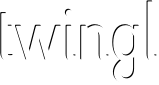
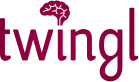
Initial styling and layout of new header/hero area.

diff --git a/css/style.css b/css/style.css
@@ -1,3 +1,22 @@
+a.logo { 
+    display: block;
+    width: 139px;
+    height: 82px;
+    background: url(../img/twingl@2x.png) no-repeat;
+    background-size: 139px 82px;
+    overflow: hidden;
+    text-indent: -200%;
+}
+
+.cf:before,
+.cf:after {
+    content: " "; /* 1 */
+    display: table; /* 2 */
+}
+
+.cf:after {
+    clear: both;
+}
 
 /* TODO: Refactor the heading/body sizes onto a typographic scale. */
 body {
@@ -12,19 +31,33 @@ strong {
     font-weight: 700;
 }
 header {
-    /* Styling */
-    background-image: -o-radial-gradient(50% 216%, #9E1452 50%, #4C0921 100%);
-    background-image: -moz-radial-gradient(50% 216%, #9E1452 50%, #4C0921 100%);
-    background-image: -webkit-radial-gradient(50% 216%, #9E1452 50%, #4C0921 100%);
-    background-image: -ms-radial-gradient(50% 216%, #9E1452 50%, #4C0921 100%);
-    background-image: radial-gradient(40% 80%, #9E1452 10%, #4C0921 120%);
-
+   
     /* Layout */
-    min-height: 200px;
-    position: relative;
+   
+    border-top: 16px solid #940142;
 
-    border-bottom: 2px solid #000;
 }
+
+header nav {
+    margin-top: 60px;
+    padding-bottom: 50px;
+    margin-bottom: 5em;
+    border-bottom: 1px solid #EBE7DF;
+}
+
+header nav ul {
+    float: right;
+    margin-top: 1.6em;
+}
+header nav li {
+    display: inline-block;
+    margin-left: 1em;
+}
+
+nav a.logo {
+    float: left;
+}
+
 a {
     color: #9E1452;
     text-decoration: none;
@@ -32,26 +65,7 @@ a {
 a:hover {
     text-decoration: underline;
 }
-a.logo { 
-    display: block;
-    width: 159px;
-    height: 85px;
-    margin-left: auto;
-    margin-right: auto;
-    background: url(../img/twingl@2x.png) no-repeat;
-    background-size: 159px 85px;
-    overflow: hidden;
-    text-indent: -200%;
-}
 
-header .logo {
-    position: absolute;
-    top: 50%;
-    left: 50%;
-    margin-left: -80px;
-    margin-top: -43px;
-       
-}
 
 
 section {
@@ -69,17 +83,27 @@ small {
 }
 
 section.hero {
-    text-align: center;
+    /*text-align: center;*/
+}
+
+.graph-homepage {
+    max-width: 300px; 
+    margin-top: 3em;
+    margin-bottom: 2em;
+    float: right;
 }
 
 h1 {
-    font-family: 'Whitney SSm A', 'Whitney SSm B'; 
+    /*font-family: 'Whitney SSm A', 'Whitney SSm B'; */
     font-weight: 300; 
     font-style: normal;
-    font-size: 3.5em;
-    letter-spacing: -0.03em;
-    line-height: 100%;
+    font-size: 3.8em;
+    letter-spacing: -1px;
+    line-height: 1.2em;
+    max-width: 12em;
     -webkit-font-smoothing: antialiased;
+    text-rendering: optimizeLegibility;
+    color: #4A4642;
 }
 
 .hero h1 {
@@ -138,10 +162,14 @@ p {
 }
 .center {text-align: center;}
 p.lead {
-    font-style: italic;
-    color: #8D8D8D;
-    font-size: 1.25em;
-    -webkit-font-smoothing: antialiased;
+    font-family: 'Whitney SSm A', 'Whitney SSm B'; 
+    font-weight: 500; 
+    font-style: normal;
+    color: #8C8C8C;
+    font-size: 1.33333em;
+    max-width: 26em;
+    text-rendering: optimizeLegibility;
+    /*-webkit-font-smoothing: antialiased;*/
 }
 
 .subtitle {
@@ -237,8 +265,12 @@ p.lead {
     .btn.btn-secondary {
         border: 2px solid black;
         border-radius: 4px;
-        font-size: 0.6em;
-        line-height: 4em
+        font-size: 0.5em;
+        line-height: 3.5em;
+        padding-left: 2em;
+        padding-right: 2em;
+        font-weight: bold;
+        transition: all 0.08s ease;
     } 
 
     .btn.btn-disabled {
@@ -249,7 +281,9 @@ p.lead {
 
     .btn.btn-secondary:hover {
         background-color: #9E1452;
+        border-color: #9E1452;
         color: #FAF9F7;
+        text-decoration: none;
     } 
 
     .btn.btn-cta {
@@ -520,11 +554,4 @@ blockquote b {
 }
 blockquote b:before {
     content: "— ";
-}
-
-
-.graph-homepage {
-    max-width: 300px; 
-    margin-top: 3em;
-    margin-bottom: 2em;
 }

diff --git a/index.html b/index.html
@@ -204,21 +204,26 @@
 
       analytics.track('Vistied Landing Page', {
       });
-
   </script>
 
 </head>
 
 <body>
   <header>
-    <a class="logo" href="http://twin.gl/">twingl</a>
-    <div class="russell">&nbsp;</div>
+    <nav class="wrapper  cf">
+        <a class="logo" href="http://twin.gl/">twingl</a>
+        <ul>
+            <li><a href="http://blog.twin.gl/" class="btn btn-secondary">Read our Blog</a></li>
+            <li><a href="http://blog.twin.gl/post/79049607696/as-we-may-yet-think" class="btn btn-secondary">Why we're here</a></li>
+            <li><a href="https://twitter.com/LetsTwingl" class="btn btn-secondary">Follow us on Twitter</a></li>
+        </ul>
+    </nav>
   </header>
   
-  <section class="hero  wrapper">
+  <section class="hero  wrapper  cf">
     <img class="graph-homepage" src="img/graph-homepage.png">
-    <h1>Collect, connect and discover interesting knowledge. </h1><!-- Title -->
-    <p class="lead">Twingl lets you collect, organise, share and discuss the<br> interesting ideas you find on the web and in books.</p>
+    <h1>Think with your tools,<br>not about them.</h1><!-- Title -->
+    <p class="lead">Twingl is a better workflow for researching, learning, and writing about your passions.</p>
     
     <h2><span>Get involved</span></h2>
     <div>
